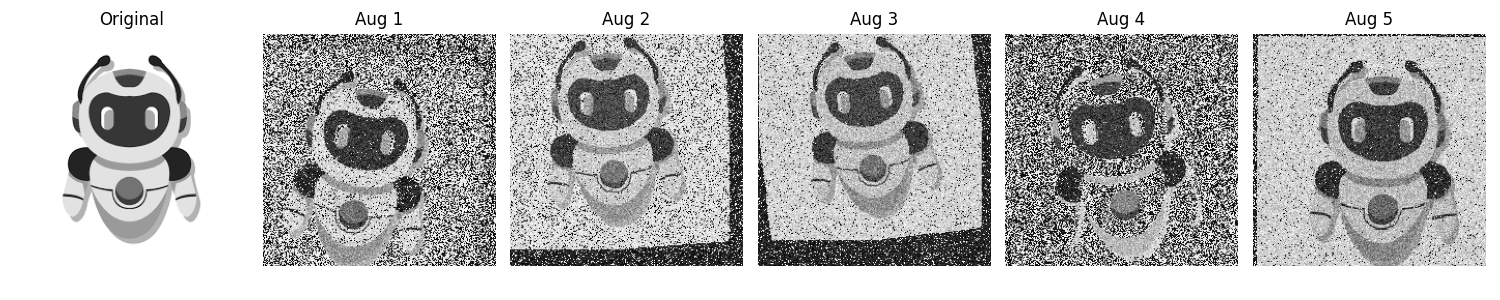
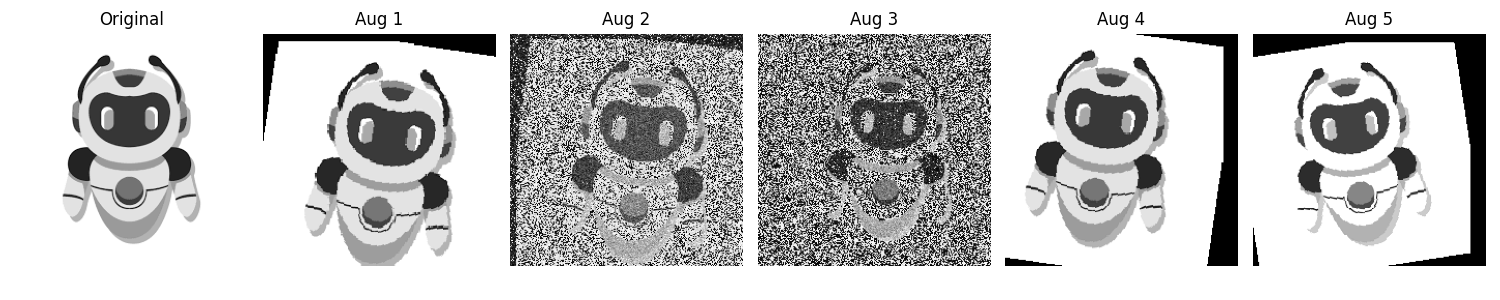
Updated README FILE

diff --git a/README.md b/README.md
@@ -1,4 +1,4 @@
-# Your Project Name
+# MNIST based model Training & Testing
 
 [![License](https://img.shields.io/github/license/sajadb2/Train-V3)](https://github.com/sajadb2/Train-V3/blob/main/LICENSE)
 [![Issues](https://img.shields.io/github/issues/sajadb2/Train-V3)](https://github.com/sajadb2/Train-V3/issues)
@@ -11,7 +11,7 @@
 
 ## Project Description
 This project implements a lightweight CNN architecture to classify handwritten digits from the MNIST dataset.
-The model achieves >97% accuracy on the test set with minimal training.
+The model achieves >95% accuracy on the test set with minimal training. Also augmented an image pycode to just augment the images.
 
 ## Model architecture details
 
@@ -45,51 +45,49 @@ Installation and usage instructions
         - `--batch-size`: Batch size for training (default: 64)
         - `--target-accuracy`: Target accuracy to stop training (default: 96.0)
    
-### Testing
-    Test the trained model using:
-        python test.py
+## Testing
+    The project includes comprehensive tests:
+        - Model architecture validation
+        - Output shape verification
+        - Accuracy threshold testing
+        - Output determinism verification
 
-Performance metrics
-File structure
+
+### File structure
     The project includes the following files:
         Train-V3/
-        ├── train.py # Training script
-        ├── test.py # Testing script
-        ├── model.pth # Saved model weights
-        ├── requirements.txt
-        └── README.md
+        ├── pycache/                # Pycache directory
+        ├── .github/
+        │   └── workflows/
+        │       └── main.yml           # GitHub Actions workflow configuration
+        │       └── python-app.yml     # GitHub Actions workflow configuration
+        ├── augmented_images/       # Augmented images directory
+        ├── data/
+        │   ├── MNIST/
+        │   │   ├── raw/
+        │   │   │   ├── train-images-idx3-ubyte.gz
+        │   │   │   └── train-labels-idx1-ubyte.gz
+        │   │   │   ├── t10k-images-idx3-ubyte.gz
+        │   │   │   └── t10k-labels-idx1-ubyte.gz
+        ├── gitignore              # Git ignore file
+        ├── augment.py             # Image augmentation script
+        ├── config.py              # Configuration file
+        ├── environment.yml        # Environment file
+        ├── image.png              # Image file
+        ├── model.pth               # Saved model weights
+        ├── requirements.txt        # Project dependencies
+        ├── test.py                 # Testing script 
+        ├── train.py                # Training script
+        ├── training_log.txt        # Training log file
+        └── README.md              # Project documentation
 
-Other standard documentation sections
-You should customize:
-The repository URL
-License information
-Your name in the Authors section
-Any specific acknowledgments
-Additional sections based on your project's needs
-You can also add:
-Screenshots of training progress
-Example predictions
-More detailed performance metrics
-Hardware requirements
-Known issues or limitations
-Future improvements planned
-
-## Image Augmentation
-The project includes image augmentation capabilities:
-- Random rotation (±10 degrees)
-- Random affine transformations
-- Brightness and contrast adjustments
-- Gaussian noise injection
-- Random translations
-
-Usage:
-
-## Testing
-The project includes comprehensive tests:
-- Model architecture validation
-- Output shape verification
-- Accuracy threshold testing
-- Output determinism verification
+### Part 2: Image Augmentation
+    The project includes image augmentation capabilities:
+        - Random rotation (±10 degrees)
+        - Random affine transformations
+        - Brightness and contrast adjustments
+        - Gaussian noise injection
+        - Random translations
 
 Run tests using:
 
@@ -103,3 +101,13 @@ Run tests using:
 [![PyTorch](https://img.shields.io/badge/PyTorch-2.0+-red.svg)](https://pytorch.org/)
 [![torchvision](https://img.shields.io/badge/torchvision-0.15+-blue.svg)](https://pytorch.org/vision/stable/index.html)
 [![tqdm](https://img.shields.io/badge/tqdm-4.65+-green.svg)](https://tqdm.github.io/)
+
+
+Screenshots of Augmented Images.
+    Refer to augmented_images
+
+The repository URL
+    https://github.com/sajadb2/Train-V3.git
+
+License information
+    None
